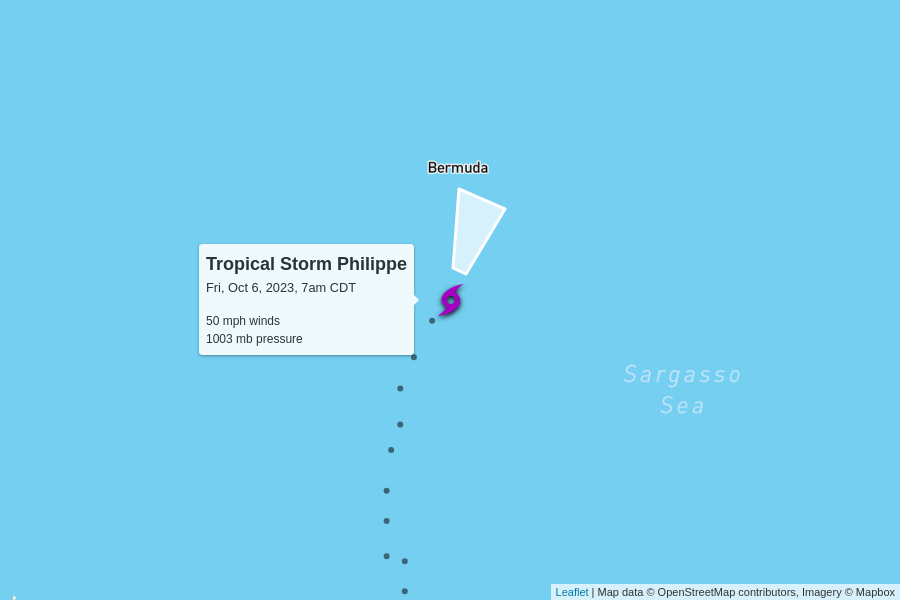
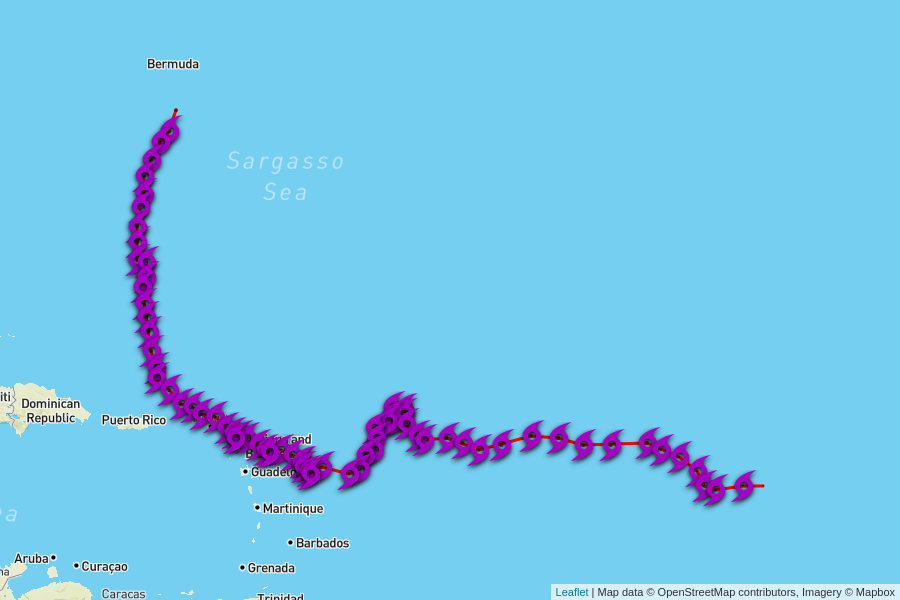
automatic update

diff --git a/docs/index.html b/docs/index.html
@@ -99,35 +99,13 @@
 
     <table>
       <tr>
-        <td colspan="6" class="storm category-0" >
-          <h2>
-            Tropical Storm Philippe
-            <p class="updated">last updated <span data-time>2023-10-06T12:00:00.000Z</span></p>
+        <td colspan="6" class="storm " style="cursor:pointer;" onClick="toggle('AL172023')">
+          <h2>🏁 Philippe
           </h2>
         </td>
       </tr>
       
-      <tr>
-        <th class="spacer"></th>
-        <th>wind speed</th>
-        <th>central pressure</th>
-        <th>movement</th>
-        <th>data (CSV)</th>
-        <th>National Hurricane Center</th>
-      </tr>
-      <tr>
-        <td class="spacer"></td>
-        <td>50 mph<br>0 mph since last update</td>
-        <td>1003 mb<br>0 mb since last update</td>
-        <td>
-          18 mph to the north-northeast
-          <br/>
-          <span style="display: inline-block; font-size: 1.5em; transform: rotate(20deg);">↑</span>
-        </td>
-        <td><a href="https://raw.githubusercontent.com/mgwalker/atlantic-hurricanes/main/data/csv/AL172023.csv">AL172023.csv</a></td>
-        <td><a href="https://www.nhc.noaa.gov/archive/2023/PHILIPPE.shtml?">NHC advisories</a></td>
-      </tr>
-      <tr id="storm_AL172023" >
+      <tr id="storm_AL172023" style="display:none;">
         <td class="spacer">
         <td colspan="5">
           <figure>
